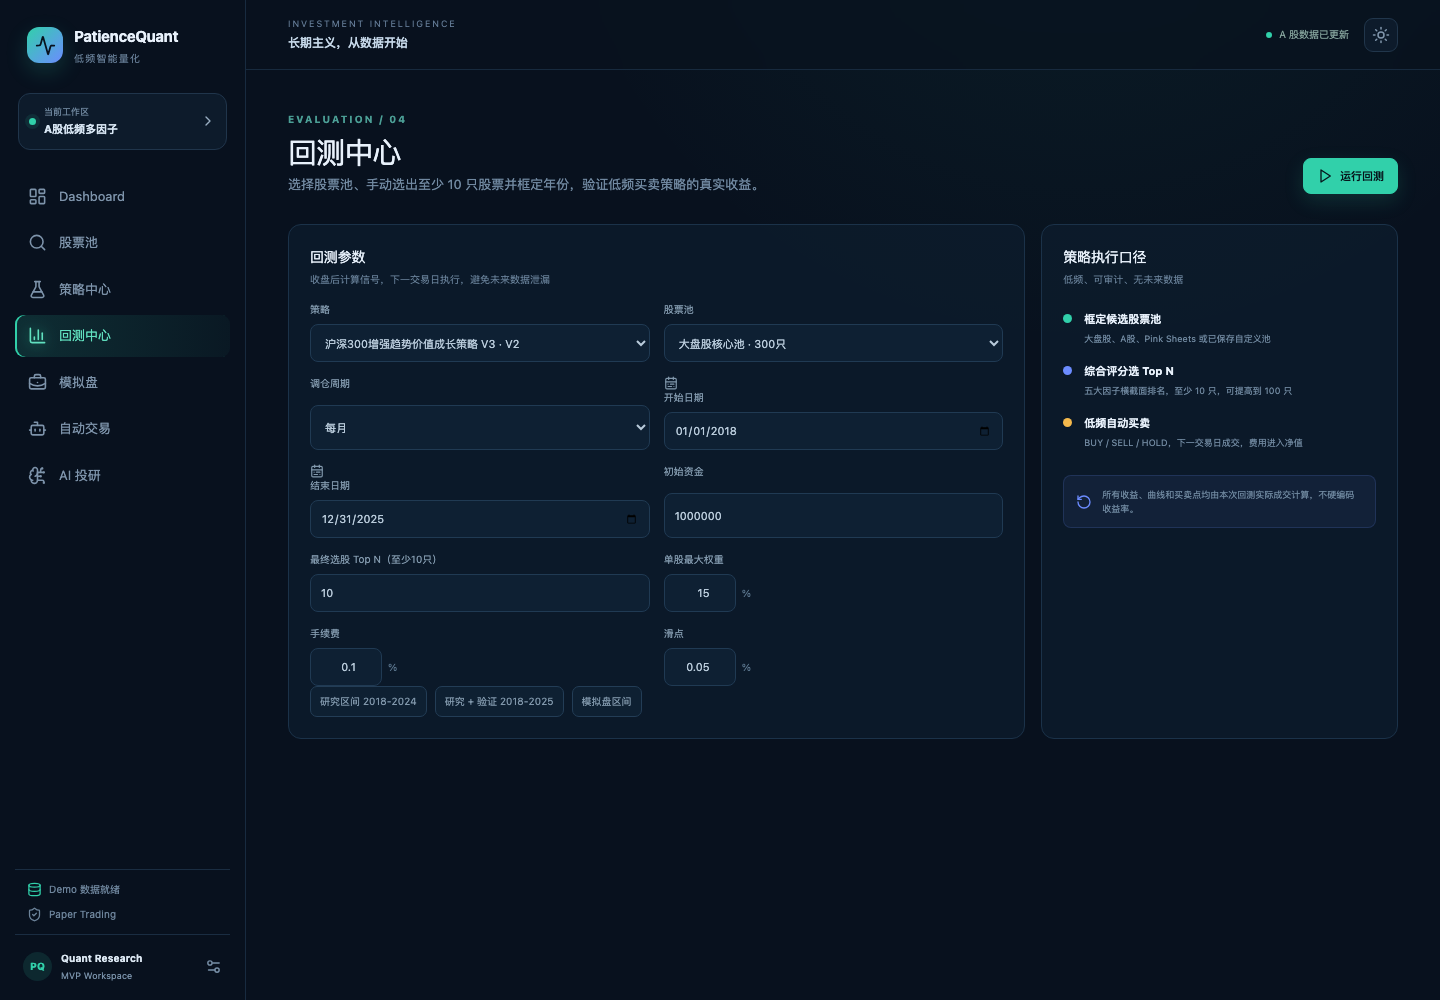
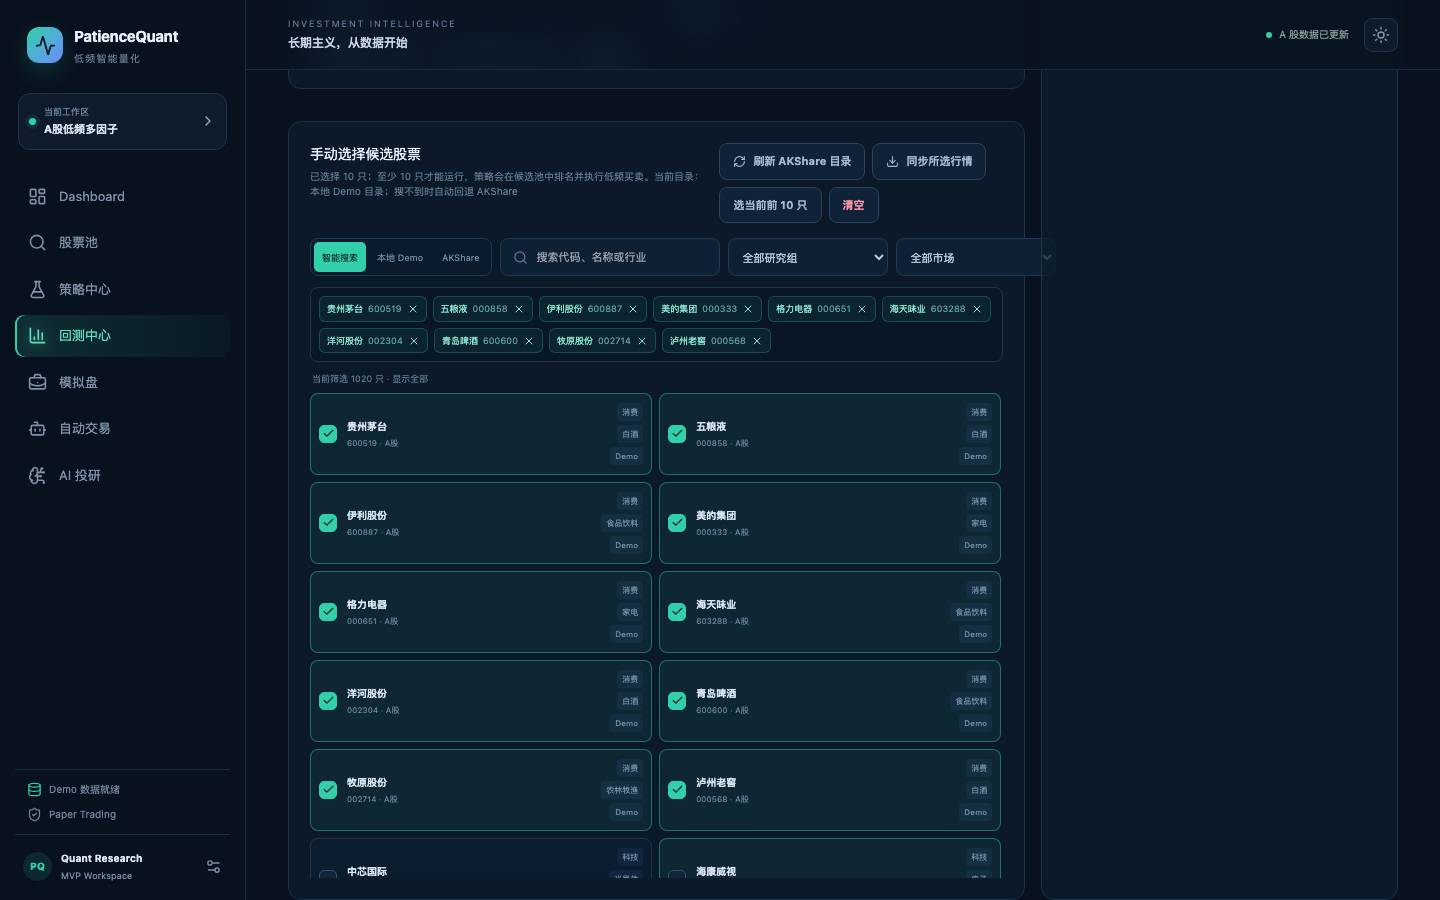
docs: refresh README screenshots

diff --git a/README.md b/README.md
@@ -87,7 +87,7 @@ uv pip install --python .venv/bin/python -e './backend'
 
 ## 前端界面预览
 
-以下截图来自本地运行的 Demo Mode，统一使用 `1440×900` 短视口（未使用整页长截图），每张图只保留一个功能的首屏关键信息：
+以下截图来自本地运行的 Demo Mode，统一使用 `1440×900` 短视口（未使用整页长截图），每张图只保留一个功能的首屏或结果视图：
 
 <table>
   <tr>
@@ -106,39 +106,47 @@ uv pip install --python .venv/bin/python -e './backend'
   </tr>
   <tr>
     <td valign="top">
-      <strong>策略中心 · 因子权重与风险预算</strong><br>
-      配置多因子权重、持仓数量、单股上限、调仓周期和研究区间。
+      <strong>策略中心 · 快速制定策略与 LightGBM</strong><br>
+      先设置策略名称、股票池、调仓频率和持仓数量；LightGBM 信号层与风险控制默认开启，高级参数按需展开。
       <br><br>
-      <img src="docs/screenshots/strategy-center.png" alt="策略中心：因子权重与风险预算" width="520">
+      <img src="docs/screenshots/strategy-center.png" alt="策略中心：快速制定策略与 LightGBM 默认开启" width="520">
     </td>
     <td valign="top">
-      <strong>回测结果 · 收益、回撤与交易记录</strong><br>
-      实际计算累计/年化收益、Sharpe、最大回撤、沪深300对比和交易账本。
+      <strong>回测中心 · 搜索并勾选股票</strong><br>
+      切换到手动股票池，搜索或筛选股票并勾选至少 10 只；研究区间可直接选择 `2018-01-01` 至 `2025-12-31`。
       <br><br>
-      <img src="docs/screenshots/backtest-result.png" alt="回测结果：收益、回撤与交易记录" width="520">
+      <img src="docs/screenshots/backtest-center.png" alt="回测中心：手动搜索并勾选至少 10 只股票" width="520">
     </td>
   </tr>
   <tr>
+    <td valign="top">
+      <strong>回测结果 · Top N、收益与风险指标</strong><br>
+      展示候选池与最终 Top N、累计/年化收益、Sharpe、最大回撤、沪深300对比、年度收益和完整成交记录。
+      <br><br>
+      <img src="docs/screenshots/backtest-result.png" alt="回测结果：最终 Top N、收益指标与风险闸门" width="520">
+    </td>
     <td valign="top">
       <strong>自动交易 · 调仓订单与触发原因</strong><br>
       从策略评分到目标权重、风险控制、BUY/SELL/HOLD 和 Paper Broker 执行。
       <br><br>
       <img src="docs/screenshots/auto-trading.png" alt="自动交易：调仓订单与触发原因" width="520">
     </td>
+  </tr>
+  <tr>
     <td valign="top">
       <strong>模拟盘 · 资产、现金与持仓收益</strong><br>
       展示策略净值、资金变化、持仓市值、浮动盈亏和成交点。
       <br><br>
       <img src="docs/screenshots/paper-trading.png" alt="模拟盘：资产、现金与持仓收益" width="520">
     </td>
-  </tr>
-  <tr>
     <td valign="top">
       <strong>股票详情 · 多年份价格曲线</strong><br>
       支持 1/3/5 年及全部历史、日/周/月粒度切换，并保留关键价格区间。
       <br><br>
       <img src="docs/screenshots/stock-detail.png" alt="股票详情：多年份价格曲线" width="520">
     </td>
+  </tr>
+  <tr>
     <td valign="top">
       <strong>AI 投研 · 可审计的交易解释</strong><br>
       基于评分、因子、行业权重和风险指标生成解释；AI 只解释，不直接下单。
